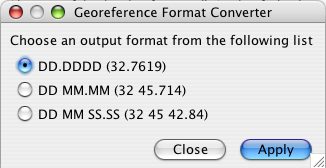
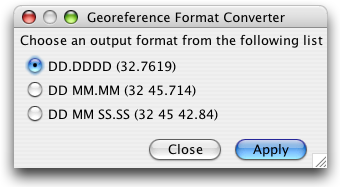
Help Updates

diff --git a/Specify/help/SpecifyHelp/Workbench/DataSetOverview.html b/Specify/help/SpecifyHelp/Workbench/DataSetOverview.html
@@ -11,11 +11,11 @@
 <p>Data is entered, edited, organized and stored in a Data Set. </p>
 <p>Data Sets are created with different Actions depending on the Work Flow. </p>
 <p>To enter data from field notes or labels choose <a href="NewData Set.html">New Data Set</a> to create an empty Data Set. Column headings for the new Data Set are chosen from  fields within Specify 6, which ensures that any data entered into the WorkBench will import correctly into Specify 6. The column headings can  be renamed, but will still maintain a link to the original Specify field. These links are referred to as 'maps'. </p>
-<p>Data that has already been entered into either an <a href="ImportXLS.html">MS Excel</a> or <a href="ImportCSV.html">CSV</a> file can be imported into a Data Set. The WorkBench not only imports the data, but also helps map the existing column headings to fields in Specify 6. This is not only necessary for other features in the WorkBench to function properly, but also ensures that the data will upload correctly into Specify 6.The WorkBench includes an 'auto-mapping' feature that reads the import column headings and automatically maps them to any matching fields in Specify 6. Any remaining unmapped column headings can be manually mapped. The column headings can be mapped to different Specify fields later by <a href="EditMapping.html">editing the Data Set Mapping</a>. </p>
+<p>Data that has already been entered into either an <a href="ImportXLS.html">MS Excel</a> or <a href="ImportCSV.html">CSV</a> file can be imported into a Data Set. The WorkBench not only imports the data, but also helps map the existing column headings to fields in Specify 6 with an 'auto-mapping' feature that reads the import column headings and automatically maps them to any matching fields. Any remaining unmapped column headings can be manually mapped. The column headings can be mapped to different Specify fields later by <a href="EditMapping.html">editing the Data Set Mapping</a>. </p>
 <p>Data Sets display the imported column headings rather than the field names, as these are  more familiar. </p>
 <p>When data exists as a group of scanned card images or field notes, it is  best to select <a href="ImportImages.html">Import Images</a> . The WorkBench will create a new Data Set, then read the group of images and link each one to a record inside the Data Set.</p>
-<p>The WorkBench can also be used <a href="ImageWindow.html">link</a> images individually to each row within existing Data Sets. </p>
-<p>Data Sets are edited as either a <a href="GridView.html">Grid</a>, or a <a href="FormView.html">Form</a> and  each  has the following unique functionality:</p>
+<p>The WorkBench can also  <a href="ImageWindow.html">link</a> images individually to each row within an existing Data Set. </p>
+<p>Data Sets are edited as either a <a href="GridView.html">Grid</a>, or a <a href="FormView.html">Form.</a> Each  view offers unique functionality:</p>
 <table width="885" border="1">
   <tr>
     <td width="167">Grid Editing</td>
@@ -32,7 +32,7 @@
   </tr>
 </table>
 <p>All or partial data within a Data Set can be exported to an MS Excel spreadsheet using the <a href="ExportData Set.html">Export Data Set</a> action.</p>
-<p>A Data Set can be described, as well as, named as using of the <a href="Data SetProperties.html">Data Set Properties dialog. </a></p>
+<p>A Data Set can be described, as well as named  using the <a href="Data SetProperties.html">Data Set Properties dialog. </a></p>
 <p>&nbsp;</p>
 </body>
 

diff --git a/Specify/help/SpecifyHelp/Workbench/ImportImages.html b/Specify/help/SpecifyHelp/Workbench/ImportImages.html
@@ -8,15 +8,15 @@
 <h2>Import  Images</h2>
 <hr>
 <p>The Import Images action creates a new Data Set,  reads in a group of images, and creates a record that links to each of the images inside the Data Set.  The linked images can be viewed while entering data into the DataSet.</p>
-<p><em>Note</em>: The 'Import Images' action is best used when entering data from scanned cards or field notes. Descriptive images can also be linked to existing Data Set records using the 'Image Toggle' button. This is described in the <a href="WorkingWithImages.html">Image Window</a> section of  Help. </p>
-<p>The WorkBench allows images in jpg, tif, png, gif and bmp formats to be linked within DataSets. </p>
+<p><em>Note</em>: The 'Import Images' action is best used when entering data from scanned cards or field notes. Single, descriptive images can also be linked to existing Data Set records using the 'Image Toggle' button. This is described in the <a href="WorkingWithImages.html">Image Window</a> section of  Help. </p>
+<p>The WorkBench links images in jpg, tif, png, gif and bmp formats. </p>
 <p>Click the &lsquo;Import  Images&rsquo; action to create a new Data Set from images. </p>
 <p>A file dialog will appear that allows multiple images to be selected. Select the images to import and click 'Open'. </p>
-<p>The following dialog gives the the choice of  copying column headings from an existing Data Set or choosing them from a list of Specify fields:</p>
+<p>The next dialog gives the the choice of  copying column headings from an existing Data Set or choosing them from a list of Specify fields:</p>
 <p align="center"><img src="../images/NewDataSet.png"></p>
 <p align="center" class="imgcaption">Data Set Column Headings </p>
-<p>To copy column headings from an existing Data Set select the 'Use an existing Data Set mapping' button and choose the Data Set from the list provided. The Data Set Properties dialog will then open to name and describe the new Data Set. </p>
-<p>To choose new column headings for the new Data Set select the 'Create new Data Set mapping' button and click 'OK'. The Data Set Mapping Editor will appear:</p>
+<p>To copy column headings from an existing Data Set, select the 'Use an existing Data Set mapping' button and choose the Data Set from the list provided. The Data Set Properties dialog will then open to name and describe the new Data Set. </p>
+<p>To choose new column headings for the new Data Set select the 'Create new Data Set mapping' button and click 'OK':</p>
 <p align="center"><img src="../images/DataSetMappingEditorClear.png" alt="Data Set Mapping Editor"></p>
 <p align="center" class="imgcaption">Data Set Mapping Editor</p>
 <p align="left">The Data Set Mapping Editor allows columns to be mapped, unmapped and reordered using the following buttons:</p>

diff --git a/Specify/help/SpecifyHelp/Workbench/ImportData.html b/Specify/help/SpecifyHelp/Workbench/ImportData.html
@@ -8,9 +8,9 @@
 <body>
 <h2>Import Data Overview</h2>
 <hr>
-<p>The WorkBench can easily import  data from a <a href="ImportXLS.html">MS Excel</a> file or <a href="ImportCSV.html">CSV</a> file to create a Data Set. </p>
-<p>The WorkBench not only imports the data, but also maps the existing column headings to fields in Specify 6. This is not only necessary for other features in the WorkBench to function properly, but also ensures that the data will upload correctly into Specify 6.The WorkBench includes an 'auto-mapping' feature that reads the import column headings and automatically maps them to any matching fields in Specify 6. Any remaining unmapped column headings can then be manually mapped. The column headings can be mapped to different Specify fields by <a href="EditMapping.html">editing the Data Set Mapping</a>. </p>
-<p>The Data Set will display the imported field names rather than the Schema names, as these are more familiar. </p>
+<p>The WorkBench can easily create a Data Set by importing  data from an <a href="ImportXLS.html">MS Excel</a>  or  <a href="ImportCSV.html">CSV</a> file. </p>
+<p>The WorkBench not only imports the data, but also maps the existing column headings to fields in Specify 6. This is not only necessary for other features in the WorkBench to function properly, but also ensures that the data will upload correctly into Specify 6.The WorkBench includes an 'auto-mapping' feature that reads the import column headings and automatically maps them to any matching fields. Any remaining unmapped column headings can then be manually mapped. The column headings can be mapped to different Specify fields by <a href="EditMapping.html">editing the Data Set Mapping</a>. </p>
+<p>The Data Set will display the imported field names rather than the Specify field names, as these are more familiar. </p>
 <p>If data exists on several scanned card images or field notes, it is very helpful to create a Data Set by <a href="ImportImages.html">importing the images</a>. </p>
 <p>&nbsp;</p>
 </body>

diff --git a/Specify/help/SpecifyHelp/Workbench/EditMapping.html b/Specify/help/SpecifyHelp/Workbench/EditMapping.html
@@ -8,13 +8,14 @@
 <body>
 <h2>Edit Data Set Mapping</h2>
 <hr>
-<p>To edit the Data Set Mapping, right-button click on the Data Setand a following context menu will appear: </p>
+<p>To edit the Data Set Mapping, right-button click on the Data Set. A  context menu will appear: </p>
 <p align="center"><img src="../images/mappingbutton.png" alt="Mapping Button"></p>
-<p>Click on 'Edit Data Set Mapping'to display the Data Set Mapping Editor dialog:</p>
+<p align="center" class="imgcaption">Edit Data Set Mapping Context Menu </p>
+<p>Click on 'Edit Data Set Mapping' to display the Data Set Mapping Editor dialog:</p>
 <p align="center"><img src="../images/DataSetMappingEditor.png" alt="Data Set Mapping Editor"></p>
 <p align="center" class="imgcaption">Data Set Mapping Editor </p>
 <p>&nbsp;</p>
-<p>The buttons in the dialog enable columns to be mapped, unmapped, added, deleted and reordered . The function of each button is described below:</p>
+<p>The buttons in the dialog enable columns to be mapped, unmapped, added, deleted and reordered:</p>
 <table width="75%" border="0" cellspacing="1" cellpadding="6">
   <tr>
     <td width="8%"><img src="../images/Map16x16.png" alt="map" width="16" height="16"></td>
@@ -43,7 +44,7 @@
   <li>Click on the column to select it </li>
   <li>Click the <img src="../images/Unmap16x16.png" alt="unmap" width="16" height="16"> (unmap) button </li>
 </ol>
-<p>To add a column </p>
+<p>To add a column: </p>
 <ol>
   <li>Click on the Data Type to show the Specify fields in the 'Fields' window </li>
   <li>Click on the Specify field</li>

diff --git a/Specify/help/SpecifyHelp/Workbench/DataSetProperties.html b/Specify/help/SpecifyHelp/Workbench/DataSetProperties.html
@@ -9,13 +9,13 @@
 <hr>
 <font size="-2"><br></font>
 <p>Data Set Properties includes the name and description of a Data Set.  </p>
-<p>To view and/or edit the properties of a Data Set, use the right mouse button to click on a Data Set. A context menu appearswithtwo options, select 'Edit Properties' :</p>
+<p>To view and/or edit the properties of a Data Set, use the right mouse button to click on a Data Set. A  context menu will appear: </p>
 <p align="center"><img src="../images/propertiesbutton.png"></p>
-<p>The Data Set Properties dialog will appear: </p>
+<p>Click on 'Edit Properties' to display the Data Set Properties dialog:</p>
 <p align="center"><img src="../images/DataSetproperties.png"></p>
 <p align="center" class="imgcaption">Data Set Properties </p>
 <p align="left">&nbsp;</p>
-<p align="left">If a Data Set was created from an imported file, the path to the file will be shown in the 'Source File' area of the dialog. </p>
+<p align="left">If a Data Set was created from an imported file, the path to the file will display in the 'Source File' area of the dialog. </p>
 <p>&nbsp;</p>
 <p>&nbsp;</p>
 </body>

diff --git a/Specify/help/SpecifyHelp/Workbench/LatLongConvert.html b/Specify/help/SpecifyHelp/Workbench/LatLongConvert.html
@@ -17,7 +17,7 @@
   <p>Note: The Lat1Text and Long1Text Columns can only fill once, if a second conversion is performed the new geocoordinates will replace the original values in Latitude1 and Longitude1. </p>
   <p>&nbsp;</p>
   <p>To begin, select either Latitude1, or Longitude1 columns (or both). Then click the <img src="../images/LatitudeLongitudeConverter16x16.png" width="16" height="17"> button. The following dialog will appear: </p>
-  <p align="center"><img src="../images/formatconverter.png" alt="Format Converter" width="326" height="168"></p>
+  <p align="center"><img src="../images/formatconverter.png" alt="Format Converter"></p>
   <p align="center" class="imgcaption">Georeference Format Converter </p>
   <p>Select the new georeference format and click 'Apply'. </p>
   <p>&nbsp;</p>

diff --git a/Specify/help/SpecifyHelp/Workbench/top10.html b/Specify/help/SpecifyHelp/Workbench/top10.html
@@ -12,7 +12,7 @@
 <p>The easiest way to create a Top 10 report is to 'drag and drop' a Data Set  onto  the Top 10 action on the sidebar. This eliminates the need to choose a Data Set for the report. </p>
 <p>Or, click the Top 10 action on the Sidebar. A file dialog will appear to choose a Data Set for the report. </p>
 <p> Next, choose a column  for the report: </p>
-<p align="center"><img src="../images/selectafield.png" alt="select a field"></p>
+<p align="center"><img src="../images/selectafield.png" alt="chooseadataset" width="349" height="274" /></p>
 <p align="center" class="imgcaption">Select a Column </p>
 <p>Select a field and click 'OK'. The report will open in the Workspace. </p>
 <p>The following image is an example of a Top 10 report:</p>

diff --git a/Specify/help/SpecifyHelp/Workbench/BasicLabel.html b/Specify/help/SpecifyHelp/Workbench/BasicLabel.html
@@ -14,7 +14,7 @@
 <p>The easiest way to create the label is to 'drag and drop' a DataSet  onto  the 'Basic Label' action on the sidebar. This eliminates the need to choose a DataSet for the Report. </p>
 <p>Or, click the 'Basic Label' action. The following dialog will appear:</p>
 <p align="center"><img src="../images/selectafield.png" alt="Choose DataSet"> </p>
-<p>Choose a DataSet and click 'ok'. </p>
+<p>Select a DataSet and click 'ok'. </p>
 <p>Labels will appear in the Workspace as well as several buttons for interacting with the labels. The buttons are shown in the diagram below:</p>
 <p align="center"><img src="../images/labelbuttons.png" alt="Label Buttons"></p>
 <p align="center" class="imgcaption">Button controls for the Labels </p>

diff --git a/Specify/help/SpecifyHelp/Workbench/ExportDataSet.html b/Specify/help/SpecifyHelp/Workbench/ExportDataSet.html
@@ -16,7 +16,7 @@
   <p align="center"><img src="../images/exportDataSet.png"></p>
   <p align="center" class="imgcaption">Export Data Set </p>
   <p>&nbsp;</p>
-  <p>Choose a Data Set in the list and click 'OK'. </p>
+  <p>Select a Data Set  and click 'OK'. </p>
   <p>&nbsp;</p>
   <p>Next, name and save the export file using the following dialog:</p>
   <p align="center"><img src="../images/exportfilename.png"></p>
